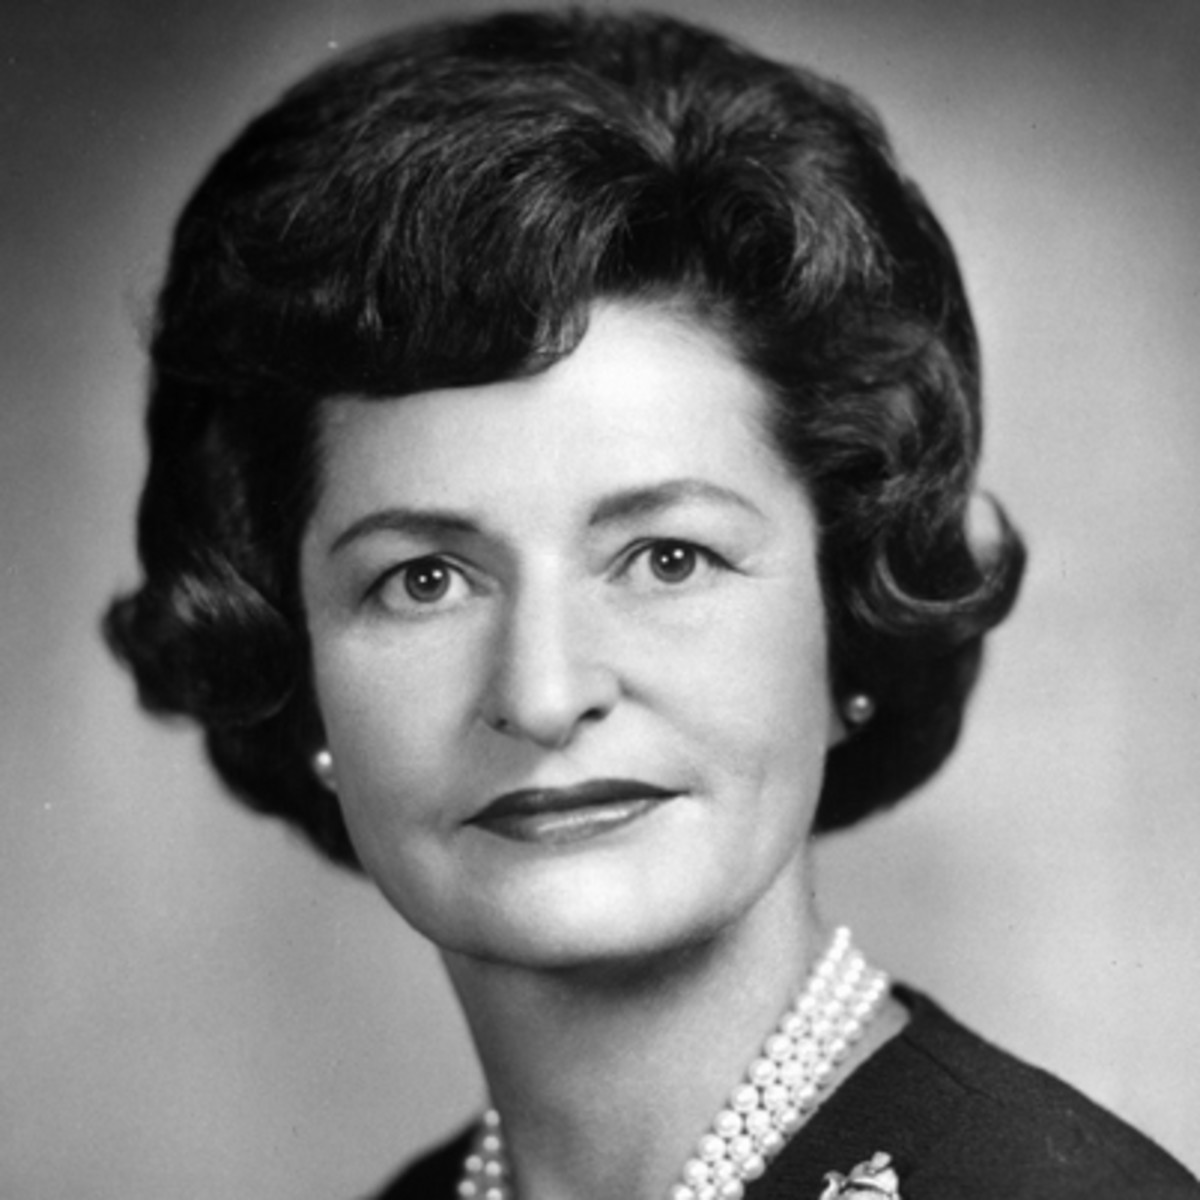
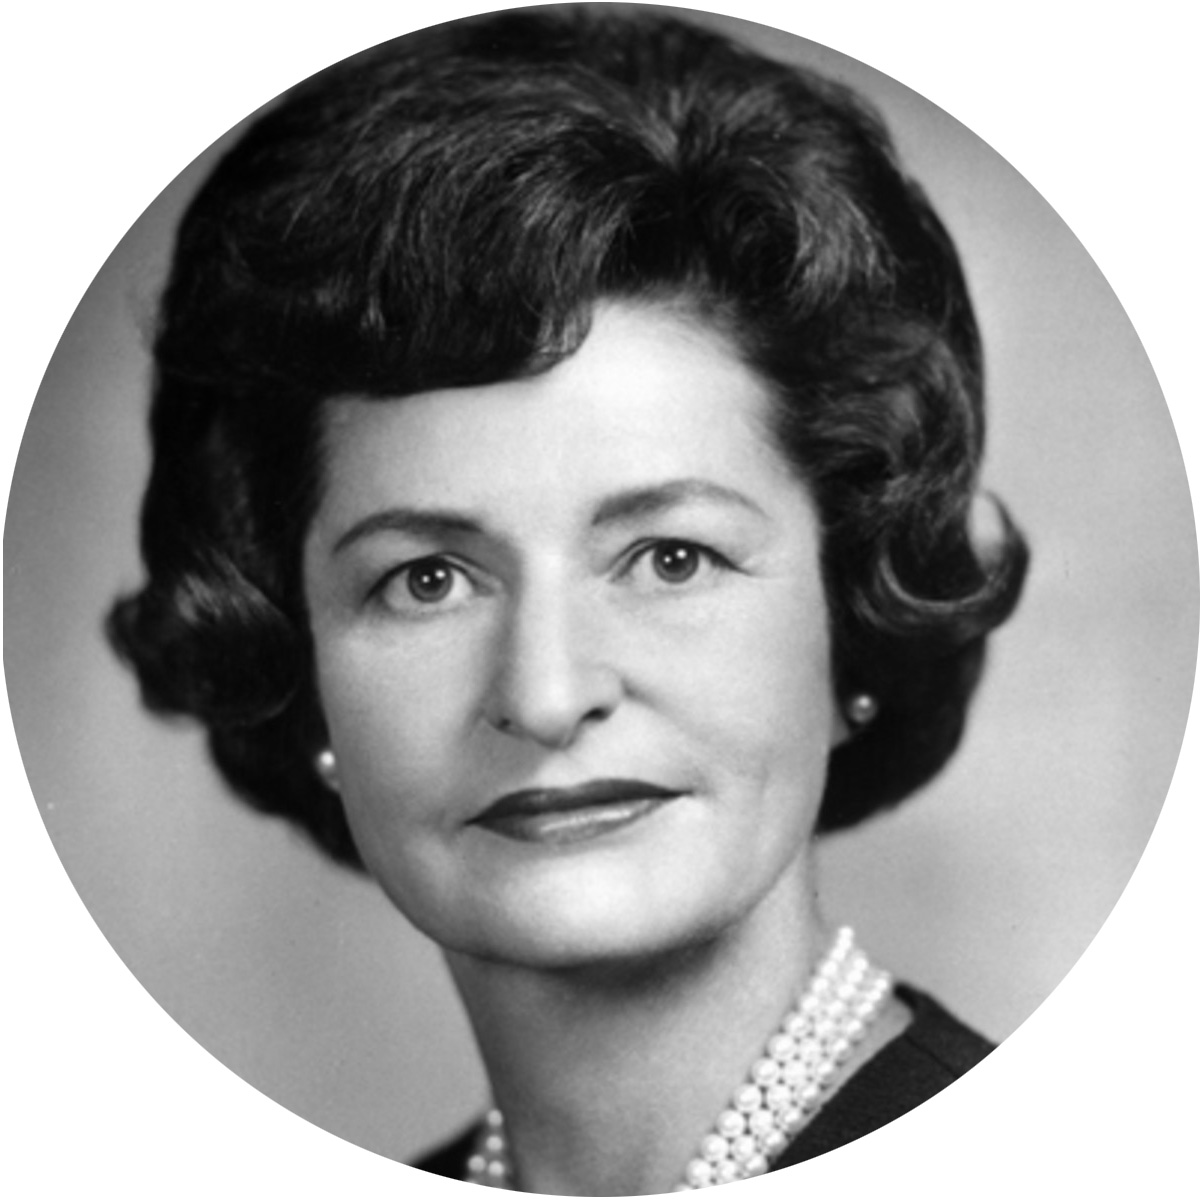
Adjusted more of the conservation page

diff --git a/html/conservation.html b/html/conservation.html
@@ -51,7 +51,9 @@
 
 <div class="container-fluid page-margin">
     <div class="row">
-        <div class="small_hero"></div>
+        <div class="small_hero">
+            <h5 class="overlay_text rye_text">Conservation</h5>
+        </div>
     </div>
 </div>
 
@@ -75,22 +77,41 @@
         <div class="col-sm-12 col-md-6 col-lg-4 cards text-center">
             <img class="img_sizing" src="../imgs/conservation_1.jpg" alt="Snow">
             <p class="carousel-caption">Taking a Stand</p>
-<!--            <p class="carousel-caption phrase">Civic in action</p>-->
         </div>
         <div class="col-sm-12 col-md-6 col-lg-4 cards text-center">
             <img class="img_sizing" src="../imgs/conservation_2.jpg" alt="Snow">
             <p class="carousel-caption">Education</p>
-<!--            <p class="carousel-caption phrase">In the Garden</p>-->
         </div>
         <div class="col-sm-12 col-md-6 col-lg-4 cards text-center">
             <img class="img_sizing" src="../imgs/conservation_3.jpg" alt="Snow">
             <p class="carousel-caption">Sustainability</p>
-<!--            <p class="carousel-caption phrase">Best in Show</p>-->
         </div>
         <hr>
     </div>
 </div>
 
+<div class="container-fluid page-margin">
+    <div class="row">
+        <div class="col-sm-12 col-md-8 offset-md-2 ">
+            <h3 class="text">
+                The Rye Garden Club has a long tradition of educating its members and the
+                community on environmental and conservation issues.
+                We are proud of our conservation education programs for Rye nursery and
+                elementary school students. Members visit classrooms to present
+                interactive lessons on the water cycle and to teach why water is such a
+                precious resource. Hundreds of children have been introduced to our “Drip
+                and Drop” and “Environscape” programs which underscore the special and
+                important responsibilities that come with living in our unique coastal town.
+                RGC has been contributing an environmental stewardship column in the
+                Rye Record since 2008. The “Green Space” column covers topics on
+                gardening with native plants, recycling tips, alternatives to chemical
+                fertilizers, the importance of trees, how to be a locavore, the effects of
+                pesticides, ways to reduce energy use, and much more.
+                Rye Garden Club will continue to “keep it green” for generations to come.
+            </h3>
+        </div>
+    </div>
+</div>
 
 
 

diff --git a/css/site.css b/css/site.css
@@ -43,7 +43,7 @@ hr {
 }
 
 .text, .card-title {
-    font-family: snell roundhand;
+    font-family: 'Snell Roundhand';
     color: #336633;
 }
 
@@ -94,7 +94,7 @@ hr {
     height: 35vh;
     width: 35vh;
     filter: grayscale(0%);
-    margin-bottom: 5vh
+    margin: 5vh 0
 }
 
 .img_sizing:hover {

diff --git a/css/index.css b/css/index.css
@@ -25,11 +25,6 @@
     background-image: url('../imgs/rye_gc_trans2.png');
 }
 
-
-
-
-/*@media only screen and (max-width: 767px) {*/
-/*    .about, .history {*/
-/*        margin: 2vh;*/
-/*    }*/
-/*}*/
+.img_sizing {
+    margin: 0 0 5vh 0;
+}

diff --git a/css/conservation.css b/css/conservation.css
@@ -4,4 +4,12 @@
 
 .logo {
     background-image: url("../imgs/lady_bird.jpg");
+    border-radius: 50%;
+}
+
+.overlay_text {
+    color: #ffffff !important;
+    position: absolute;
+    bottom: 65vh;
+    left: 10vw;
 }
